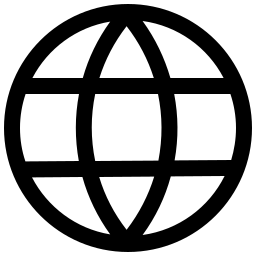
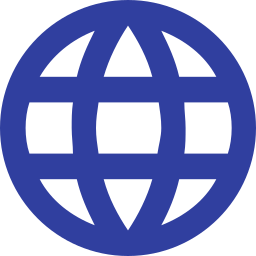
Color theme changes

diff --git a/src/components/ReviewModal.jsx b/src/components/ReviewModal.jsx
@@ -8,11 +8,12 @@ import StarIcon from "@material-ui/icons/Star";
 import StarBorderIcon from "@material-ui/icons/StarBorder";
 
 // styles
-const useStyles = makeStyles({
+const useStyles = makeStyles((theme) => ({
   container: {
     maxWidth: "450px",
     width: "450px",
   },
+  heading: { color: theme.palette.primary.dark, fontFamily: "TektonPro" },
   headingDiv: {
     display: "flex",
     justifyContent: "space-between",
@@ -20,18 +21,18 @@ const useStyles = makeStyles({
     marginBottom: "10px",
     "& button": {
       maxHeight: "30px",
-      backgroundColor: "black",
+      backgroundColor: theme.palette.primary.dark,
       color: "white",
       "&:hover": {
-        backgroundColor: "black",
+        backgroundColor: theme.palette.primary.dark,
         color: "white",
       },
     },
   },
   hr: {
     width: "80px",
-    border: "2px solid black",
-    background: "black",
+    border: `2px solid ${theme.palette.primary.dark}`,
+    background: theme.palette.primary.dark,
     marginBottom: "30px",
   },
   reviewList: {
@@ -53,7 +54,8 @@ const useStyles = makeStyles({
     marginLeft: "10px",
     marginBottom: "20px",
   },
-});
+  avatar: { backgroundColor: theme.palette.primary.dark },
+}));
 
 const ReviewModal = ({ ratings, handleOpenAddReview }) => {
   const classes = useStyles();
@@ -61,27 +63,30 @@ const ReviewModal = ({ ratings, handleOpenAddReview }) => {
   return (
     <div className={classes.container}>
       <div className={classes.headingDiv}>
-        <Typography variant="h4" style={{ fontFamily: "TektonPro" }}>
+        <Typography variant="h4" className={classes.heading}>
           <b>Ratings</b>
         </Typography>
-        <Button variant="contained" onClick={handleOpenAddReview}>
-          Add
-        </Button>
+        <Button onClick={handleOpenAddReview}>Add</Button>
       </div>
       <hr className={classes.hr} />
 
       <div className={classes.reviewList}>
         {ratings.map((rating) => (
           <div className={classes.review}>
-            <Avatar>{rating.username.substring(0, 1).toUpperCase()}</Avatar>
+            <Avatar className={classes.avatar}>
+              {rating.username.substring(0, 1).toUpperCase()}
+            </Avatar>
             <div className={classes.comment}>
               <Typography variant="body2" style={{ paddingLeft: "3px" }}>
                 <b>{rating.username}</b>
               </Typography>
               {[1, 2, 3, 4, 5].map((item) => {
                 if (rating.rating >= item) {
-                  return <StarIcon />;
-                } else return <StarBorderIcon />;
+                  return <StarIcon style={{ color: "rgb(255, 215, 0)" }} />;
+                } else
+                  return (
+                    <StarBorderIcon style={{ color: "rgb(255, 215, 0)" }} />
+                  );
               })}
               <Typography variant="body2" style={{ paddingLeft: "3px" }}>
                 {rating.comment}

diff --git a/src/components/Profile.jsx b/src/components/Profile.jsx
@@ -18,7 +18,7 @@ import Tooltip from "@material-ui/core/Tooltip";
 import { Store } from "../StoreContext";
 
 // styles
-const useStyles = makeStyles({
+const useStyles = makeStyles((theme) => ({
   icons: {
     marginTop: "40px",
   },
@@ -36,11 +36,11 @@ const useStyles = makeStyles({
     alignItems: "center",
     textAlign: "center",
   },
-  heading: { marginBottom: "10px" },
+  heading: { marginBottom: "10px", color: theme.palette.primary.dark },
   text: { marginTop: "20px" },
   hr: {
-    backgroundColor: "black",
-    border: "1px solid black",
+    backgroundColor: theme.palette.primary.dark,
+    border: `1px solid ${theme.palette.primary.dark}`,
     width: "200px",
   },
   menu: {
@@ -77,12 +77,11 @@ const useStyles = makeStyles({
     fontSize: "16px",
     textAlign: "center",
   },
-});
+}));
 
 const Profile = ({ vendor, vendorId, handleMenuOpen, handleReviewsOpen }) => {
   const classes = useStyles();
   const { user } = Store();
-  console.log(user);
 
   return (
     <>
@@ -166,7 +165,7 @@ const Profile = ({ vendor, vendorId, handleMenuOpen, handleReviewsOpen }) => {
 
         <div className={classes.website}>
           <Typography variant="h4" className={classes.heading}>
-            <b>Website and Social medias</b>
+            <b>Website and Social Media</b>
           </Typography>
           <hr className={classes.hr} />
           <Typography variant="body1" className={classes.text}>

diff --git a/src/components/Register.jsx b/src/components/Register.jsx
@@ -12,13 +12,14 @@ import Button from "@material-ui/core/Button";
 import TextField from "@material-ui/core/TextField";
 import Autocomplete from "@material-ui/lab/Autocomplete";
 
-const useStyles = makeStyles({
+const useStyles = makeStyles((theme) => ({
   main: {
     display: "flex",
     flexDirection: "column",
     alignItems: "center",
     marginTop: "30px",
   },
+  heading: { color: theme.palette.primary.dark },
   caption: { textAlign: "center", marginTop: "20px" },
   form: {
     marginTop: "30px",
@@ -56,7 +57,7 @@ const useStyles = makeStyles({
     height: "40px",
     marginTop: "20px",
     marginBottom: "20px",
-    backgroundColor: "#2D0D79",
+    backgroundColor: theme.palette.primary.dark,
     color: "white",
     border: "none",
     cursor: "pointer",
@@ -82,7 +83,7 @@ const useStyles = makeStyles({
       color: "gray",
     },
   },
-});
+}));
 
 const Register = ({
   data,
@@ -203,7 +204,7 @@ const Register = ({
 
   return (
     <div className={classes.main}>
-      <Typography variant="h3">
+      <Typography variant="h3" className={classes.heading}>
         {pathname === "/register" ? "Vendors Registration" : "Update Details"}
       </Typography>
 

diff --git a/src/components/AddReviewModal.jsx b/src/components/AddReviewModal.jsx
@@ -5,7 +5,7 @@ import Button from "@material-ui/core/Button";
 import StarsRating from "stars-rating";
 
 // styles
-const useStyles = makeStyles({
+const useStyles = makeStyles((theme) => ({
   container: {
     maxWidth: "450px",
     width: "450px",
@@ -32,10 +32,10 @@ const useStyles = makeStyles({
   btn: {
     marginTop: "20px",
     width: "100%",
-    backgroundColor: "black",
+    backgroundColor: theme.palette.primary.dark,
     color: "white",
     "&:hover": {
-      backgroundColor: "black",
+      backgroundColor: theme.palette.primary.dark,
       color: "white",
     },
   },
@@ -45,7 +45,8 @@ const useStyles = makeStyles({
     color: "red",
     fontSize: "small",
   },
-});
+  heading: { color: theme.palette.primary.dark },
+}));
 
 const AddReviewModal = ({
   review,
@@ -77,6 +78,7 @@ const AddReviewModal = ({
     <div className={classes.container}>
       <Typography
         variant="h4"
+        className={classes.heading}
         style={{ fontFamily: "TektonPro", marginBottom: "20px" }}
       >
         <b>Add Rating</b>

diff --git a/src/components/LoginForm.jsx b/src/components/LoginForm.jsx
@@ -3,7 +3,7 @@ import { makeStyles } from "@material-ui/core/styles";
 import Typography from "@material-ui/core/Typography";
 
 // Styles
-const useStyles = makeStyles({
+const useStyles = makeStyles((theme) => ({
   input: {
     "-webkit-width": "400px",
     "-webkit-border-color": "black",
@@ -30,16 +30,17 @@ const useStyles = makeStyles({
   },
   heading: {
     marginBottom: "20px",
+    color: theme.palette.primary.dark,
   },
   submit: {
     width: "100px",
     height: "40px",
-    backgroundColor: "#2D0D79",
+    backgroundColor: theme.palette.primary.dark,
     color: "white",
     border: "none",
     cursor: "pointer",
   },
-});
+}));
 
 const LoginForm = ({ data, handleChange, handleSubmit }) => {
   const classes = useStyles();

diff --git a/src/assets/images.js b/src/assets/images.js
@@ -15,6 +15,11 @@ import SelectedVendor from "./images/selectedVendor.png";
 import FacebookIcon from "./images/facebookIcon.png";
 import InstagramIcon from "./images/instagramIcon.png";
 import WebIcon from "./images/webIcon.png";
+import coloredAddress from "./images/coloredAddress.png";
+import ColoredBank from "./images/coloredBank.png";
+import ColoredCash from "./images/coloredCash.png";
+import ColoredRating from "./images/coloredRating.png";
+import ColoredTruck from "./images/coloredTruck.png";
 
 export {
   SliderImage1,
@@ -34,4 +39,9 @@ export {
   FacebookIcon,
   InstagramIcon,
   WebIcon,
+  coloredAddress,
+  ColoredBank,
+  ColoredCash,
+  ColoredRating,
+  ColoredTruck,
 };

diff --git a/src/components/Listing.jsx b/src/components/Listing.jsx
@@ -44,14 +44,13 @@ const useStyles = makeStyles((theme) => ({
   btn: {
     color: "white",
     maxHeight: "40px",
-    paddingRight: "20px",
-    paddingLeft: "20px",
-    marginTop: "100px",
+    padding: "20px",
+    marginTop: "90px",
     borderRadius: "10px",
-    backgroundColor: "black",
+    backgroundColor: theme.palette.primary.dark,
     "&:hover": {
       color: "white",
-      backgroundColor: "black",
+      backgroundColor: theme.palette.primary.dark,
     },
   },
   caterers: {

diff --git a/src/components/CatererCard.jsx b/src/components/CatererCard.jsx
@@ -20,7 +20,7 @@ const useStyles = makeStyles((theme) => ({
     paddingRight: "20px",
     paddingLeft: "20px",
     borderRadius: "10px",
-    transitionProperty: "backgroundColor, color",
+    transitionProperty: "background-color, color",
     transitionDuration: "0.4s",
     "&:hover": {
       backgroundColor: theme.palette.primary.dark,

diff --git a/src/components/Header.js b/src/components/Header.js
@@ -80,7 +80,7 @@ const Header = () => {
                 pathname !== "/login" &&
                 pathname !== "/profile"
                   ? { color: "white" }
-                  : { color: "black" }
+                  : { color: "#303f9f" }
               }
             >
               H-CATERING

diff --git a/src/components/MuiSelect.jsx b/src/components/MuiSelect.jsx
@@ -18,6 +18,9 @@ const useStyles = makeStyles({
       marginTop: "0",
       fontSize: "16px",
     },
+    "&.MuiInputLabel-shrink": {
+      fontSize: "16px",
+    },
   },
   outlined: {
     height: "40px",
